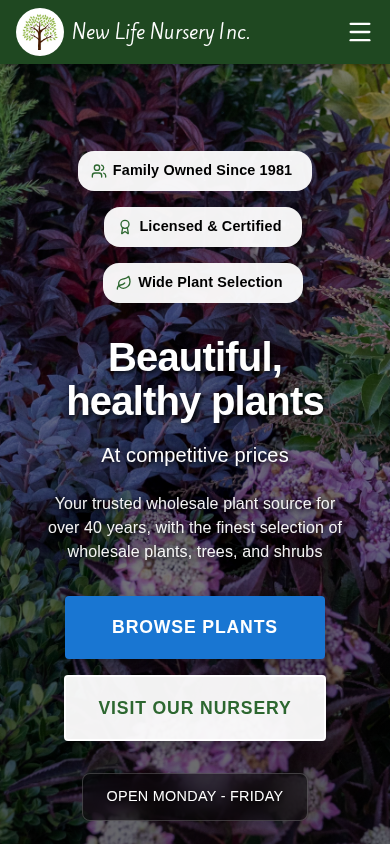
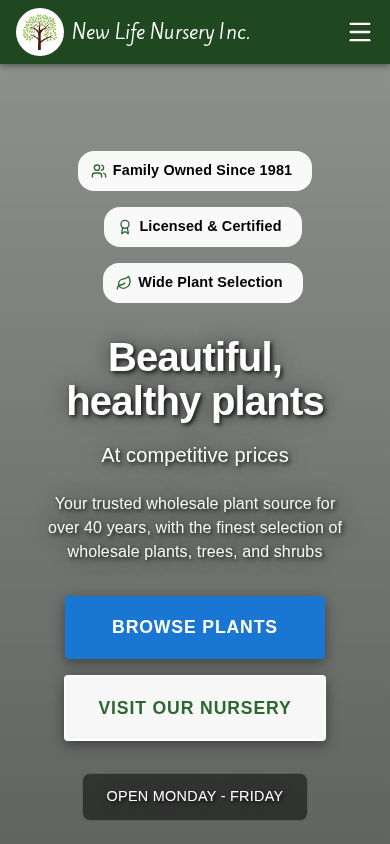
Harden browser validation gates

diff --git a/e2e/pwa.spec.ts b/e2e/pwa.spec.ts
@@ -177,21 +177,30 @@ test("shows a reload action when a service worker update is ready", async ({ pag
     await page.goto("/", { waitUntil: "load" });
     await expect(page.getByRole("button", { name: "Browse Plants" })).toBeVisible();
 
-    await page.evaluate(() => {
-        window.dispatchEvent(
-            new window.CustomEvent("nln-service-worker-update-ready", {
-                detail: {
-                    reload: () => {
-                        (
-                            window as typeof window & { __pwaReloadRequested?: boolean }
-                        ).__pwaReloadRequested = true;
-                    },
-                },
-            }),
-        );
-    });
+    await expect
+        .poll(() =>
+            page.evaluate(() => {
+                if (document.body.textContent?.includes("A site update is ready.")) {
+                    return true;
+                }
 
-    await expect(page.getByText("A site update is ready.")).toBeVisible();
+                window.dispatchEvent(
+                    new window.CustomEvent("nln-service-worker-update-ready", {
+                        detail: {
+                            reload: () => {
+                                (
+                                    window as typeof window & {
+                                        __pwaReloadRequested?: boolean;
+                                    }
+                                ).__pwaReloadRequested = true;
+                            },
+                        },
+                    }),
+                );
+                return document.body.textContent?.includes("A site update is ready.") ?? false;
+            }),
+        )
+        .toBe(true);
     await page.getByRole("button", { name: /reload/i }).click();
     await expect
         .poll(() =>

diff --git a/e2e/admin/stable/admin-gallery-simple.spec.ts b/e2e/admin/stable/admin-gallery-simple.spec.ts
@@ -7,6 +7,7 @@ import {
     stripApiPrefix,
 } from "@local/shared";
 import { test, expect } from "../../fixtures/auth";
+import { allowRuntimeIssue } from "../../fixtures/runtime-guard";
 
 const tinyPng = Buffer.from(
[1 lines of base64/hex data omitted]
@@ -96,6 +97,38 @@ test.describe("Admin Gallery", () => {
                     }),
                 ]),
             );
+
+            await authenticatedPage.goto(APP_LINKS.AdminGallery);
+            await authenticatedPage.getByRole("button", { name: /delete image/i }).last().click();
+            const deleteDialog = authenticatedPage.getByRole("dialog", {
+                name: /delete image/i,
+            });
+            await expect(deleteDialog).toBeVisible();
+            const blockedDeleteResponsePromise = authenticatedPage.waitForResponse(
+                (response) =>
+                    response.url().includes(
+                        `${stripApiPrefix(REST_ROUTES.images.root)}/${uploadedHash}`,
+                    ) &&
+                    response.request().method() === "DELETE",
+            );
+            allowRuntimeIssue(
+                authenticatedPage,
+                (issue) =>
+                    (issue.kind === "response" &&
+                        issue.message.includes(
+                            `409 ${DEFAULT_SERVER_URLS.localOrigin}${REST_ROUTES.images.root}/${uploadedHash}`,
+                        )) ||
+                    (issue.kind === "console" &&
+                        issue.message.includes(
+                            "Failed to load resource: the server responded with a status of 409",
+                        )),
+            );
+            await deleteDialog.getByRole("button", { name: /^delete$/i }).click();
+            const blockedDeleteResponse = await blockedDeleteResponsePromise;
+            expect(blockedDeleteResponse.status()).toBe(409);
+            await expect(
+                authenticatedPage.getByText(/cannot delete image while in use/i),
+            ).toBeVisible();
         } finally {
             if (uploadedHash) {
                 const csrfResponse = await authenticatedPage.request.get(

diff --git a/e2e/fixtures/runtime-guard.ts b/e2e/fixtures/runtime-guard.ts
@@ -5,7 +5,10 @@ type RuntimeIssue = {
     message: string;
 };
 
+type RuntimeIssueMatcher = (issue: RuntimeIssue) => boolean;
+
 type RuntimeGuard = {
+    allowIssue: (matcher: RuntimeIssueMatcher) => void;
     assertClean: () => void;
 };
 
@@ -55,6 +58,7 @@ const isAllowedResponseFailure = (response: Response) =>
 
 export const attachRuntimeGuard = (page: Page): RuntimeGuard => {
     const issues: RuntimeIssue[] = [];
+    const allowedIssueMatchers: RuntimeIssueMatcher[] = [];
 
     page.on("console", (message) => {
         const type = message.type();
@@ -87,10 +91,18 @@ export const attachRuntimeGuard = (page: Page): RuntimeGuard => {
     });
 
     const guard = {
+        allowIssue: (matcher: RuntimeIssueMatcher) => {
+            allowedIssueMatchers.push(matcher);
+        },
         assertClean: () => {
-            if (issues.length === 0) return;
+            const unexpectedIssues = issues.filter(
+                (issue) => !allowedIssueMatchers.some((matcher) => matcher(issue)),
+            );
+            if (unexpectedIssues.length === 0) return;
 
-            const details = issues.map((issue) => `- ${issue.kind}: ${issue.message}`).join("\n");
+            const details = unexpectedIssues
+                .map((issue) => `- ${issue.kind}: ${issue.message}`)
+                .join("\n");
             throw new Error(`Unexpected browser/runtime issues detected:\n${details}`);
         },
     };
@@ -101,4 +113,12 @@ export const attachRuntimeGuard = (page: Page): RuntimeGuard => {
 
 export const assertRuntimeClean = (page: Page) => {
     pageGuards.get(page)?.assertClean();
+};
+
+export const allowRuntimeIssue = (page: Page, matcher: RuntimeIssueMatcher) => {
+    const guard = pageGuards.get(page);
+    if (!guard) {
+        throw new Error("Runtime guard is not attached to this page");
+    }
+    guard.allowIssue(matcher);
 };

diff --git a/e2e/admin/stable/public-visual-simple.spec.ts b/e2e/admin/stable/public-visual-simple.spec.ts
@@ -11,15 +11,23 @@ const expectNoHorizontalOverflow = async (page: Page) => {
     expect(overflow).toBeLessThanOrEqual(1);
 };
 
+const hideHomepageHeroMedia = async (page: Page) => {
+    await page.addStyleTag({
+        content: `
+            main picture img[alt="Fall 2025 Highlights"],
+            main picture img[alt="Plant selection at New Life Nursery"],
+            main picture img[alt="Butterfly at New Life Nursery"] {
+                visibility: hidden !important;
+            }
+        `,
+    });
+};
+
 const expectStableScreenshot = async (
     page: Page,
     name: string,
     options: PageAssertionsToHaveScreenshotOptions,
 ) => {
-    if (process.env.CI) {
-        return;
-    }
-
     await expect(page).toHaveScreenshot(name, options);
 };
 
@@ -30,6 +38,7 @@ test.describe("Public Site - Visual Smoke", () => {
             page.getByRole("heading", { name: /new life nursery|wholesale nursery/i }).first(),
         ).toBeVisible();
         await expectNoHorizontalOverflow(page);
+        await hideHomepageHeroMedia(page);
 
         await expectStableScreenshot(page, "public-home-desktop.png", {
             animations: "disabled",
@@ -103,6 +112,7 @@ test.describe("Public Site - Visual Smoke", () => {
             page.getByRole("heading", { name: /new life nursery|wholesale nursery/i }).first(),
         ).toBeVisible();
         await expectNoHorizontalOverflow(page);
+        await hideHomepageHeroMedia(page);
 
         await expectStableScreenshot(page, "public-home-mobile.png", {
             animations: "disabled",

diff --git a/packages/ui/src/components/Hero/Slide.tsx b/packages/ui/src/components/Hero/Slide.tsx
@@ -11,6 +11,7 @@ interface SlideProps {
     isActive?: boolean;
     offsetPercent?: number;
     transitionDuration?: number;
+    loading?: "eager" | "lazy";
 }
 
 export const Slide = ({
@@ -21,6 +22,7 @@ export const Slide = ({
     isActive,
     offsetPercent,
     transitionDuration = 1000,
+    loading,
 }: SlideProps) => {
     if (!image) return null;
 
@@ -42,7 +44,7 @@ export const Slide = ({
         .map((file) => `${toImageUrl(file.src)} ${file.width}w`)
         .join(", ");
     const fallbackFile = files.find((file) => file.src === imageSrc) ?? files[0];
-    const loading = isPriority ? "eager" : "lazy";
+    const imageLoading = loading ?? (isPriority ? "eager" : "lazy");
     const fetchPriority = isPriority ? "high" : "auto";
     const imageElement = (
         <Box
@@ -60,7 +62,7 @@ export const Slide = ({
                 srcSet={fallbackSrcSet || undefined}
                 sizes="100vw"
                 alt={image.alt || ""}
-                loading={loading}
+                loading={imageLoading}
                 ref={(element: HTMLImageElement | null) => {
                     element?.setAttribute("fetchpriority", fetchPriority);
                 }}

diff --git a/playwright.visual.config.ts b/playwright.visual.config.ts
@@ -1,0 +1,6 @@
+import { createE2EConfig } from "./playwright.shared";
+
+export default createE2EConfig({
+    testMatch: "admin/stable/public-visual-simple.spec.ts",
+    reportName: "visual",
+});

diff --git a/packages/ui/src/components/Hero/Slider.tsx b/packages/ui/src/components/Hero/Slider.tsx
@@ -86,8 +86,8 @@ export const Slider = ({
         const previousIndex = slideIndex === 0 ? images.length - 1 : slideIndex - 1;
         const nextIndex = slideIndex === images.length - 1 ? 0 : slideIndex + 1;
         const visibleIndexes = canPreloadNeighbors
-            ? new Set([previousIndex, slideIndex, nextIndex])
-            : new Set([slideIndex]);
+            ? [...new Set([previousIndex, slideIndex, nextIndex])]
+            : [slideIndex];
 
         return [...visibleIndexes].map((index) => {
             const offset = index === slideIndex ? 0 : index === previousIndex ? -100 : 100;
@@ -98,6 +98,7 @@ export const Slider = ({
                     key={`slide-${index}`}
                     image={images[index]}
                     isPriority={index === slideIndex}
+                    loading={canPreloadNeighbors || index === slideIndex ? "eager" : "lazy"}
                     fadeTransition={fadeTransition}
                     isActive={fadeTransition ? index === slideIndex : undefined}
                     offsetPercent={fadeTransition ? undefined : offset}

diff --git a/packages/ui/src/components/Hero/Slider.test.tsx b/packages/ui/src/components/Hero/Slider.test.tsx
@@ -43,7 +43,7 @@ describe("Slider", () => {
             "high",
         );
         const preloadedSecondSlide = screen.getByRole("img", { name: "Second hero slide" });
-        expect(preloadedSecondSlide).toHaveAttribute("loading", "lazy");
+        expect(preloadedSecondSlide).toHaveAttribute("loading", "eager");
         expect(preloadedSecondSlide).toHaveAttribute("fetchpriority", "auto");
 
         act(() => {

diff --git a/playwright.public.config.ts b/playwright.public.config.ts
@@ -5,7 +5,6 @@ export default createE2EConfig({
         "admin/stable/public-account-flows-simple.spec.ts",
         "admin/stable/public-gallery-simple.spec.ts",
         "admin/stable/public-smoke-simple.spec.ts",
-        "admin/stable/public-visual-simple.spec.ts",
     ],
     reportName: "public",
 });

diff --git a/TESTING.md b/TESTING.md
@@ -8,11 +8,11 @@ This project has five validation tiers. Use the cheapest tier that answers the q
 | --- | --- | --- | --- |
 | Quick gate | `yarn validate` or `yarn validate:quick` | TypeScript, test typecheck, lint, unit tests, script tests, drift checks, migration risk checks | Node/Yarn, Bats for script tests |
 | Server integration | `yarn test:integration` | REST, auth, database, Redis, queue, storage, newsletter, and landing-page behavior against real infrastructure | Docker |
-| Browser gate | `yarn validate:browser` | Production UI build, PWA checks, accessibility E2E, public visitor Playwright flows, stable admin Playwright flows | Docker, Playwright Chromium |
+| Browser gate | `yarn validate:browser` | Production UI build, PWA checks, accessibility E2E, public visitor Playwright flows, visual regression snapshots, stable admin Playwright flows | Docker, Playwright Chromium |
 | Full gate | `yarn validate:full` | Quick gate, server integration, browser gate | Docker, Playwright Chromium |
 | Release gate | `yarn validate:release` | Full gate plus Lighthouse public page checks and a validation receipt | Docker, Playwright Chromium |
 
-CI runs the same core layers as separate jobs: quick validation plus PWA/Lighthouse, server integration tests, public/admin browser E2E and accessibility tests, and a final trusted gate that fails unless all required jobs pass.
+CI runs the same core layers as separate jobs: quick validation plus PWA/Lighthouse, server integration tests, public/admin browser E2E, visual regression and accessibility tests, and a final trusted gate that fails unless all required jobs pass. A scheduled Lighthouse workflow also runs weekly to catch public-page performance drift.
 
 ## Recommended Local Workflow
 
@@ -40,13 +40,19 @@ Before a production deployment, use the non-deploying readiness gate with a fres
 ./scripts/deploy-readiness.sh -v <VERSION> -e .env-prod
 ```
 
+After a deployment, run the read-only public smoke check against the deployed base URL:
+
+```bash
+PUBLIC_SMOKE_BASE_URL=https://<your-site> yarn smoke:public
+```
+
 ## What Each Layer Catches
 
 `yarn validate` catches compile errors, broken test types, lint failures, unit regressions, unsafe test patterns, raw route drift, env default drift, risky migrations, and deployment-script regressions.
 
 `yarn test:integration` catches behavior that mocks usually miss: Prisma migrations, PostgreSQL queries, Redis behavior, authentication cookies, CSRF-sensitive REST flows, storage cleanup, newsletter management, landing-page APIs, and queue behavior.
 
-`yarn validate:browser` catches browser-level failures: public and admin navigation, admin content management smoke flows, accessibility smoke coverage, PWA/service-worker expectations, unexpected console/page errors, and unexpected failed HTTP responses.
+`yarn validate:browser` catches browser-level failures: public and admin navigation, admin content management smoke flows, accessibility smoke coverage, visual regressions on key public pages, PWA/service-worker expectations, unexpected console/page errors, and unexpected failed HTTP responses.
 
 `yarn validate:release` adds Lighthouse checks for homepage, about, and gallery. Lighthouse blocks failed quality categories and homepage-critical performance regressions such as LCP exceeding the configured threshold.
 
@@ -56,6 +62,7 @@ Before a production deployment, use the non-deploying readiness gate with a fres
 - Server integration tests use `*.integration.test.ts`.
 - Stable Playwright tests live under `e2e/admin/stable`.
 - Public visitor Playwright specs are named `public-*-simple.spec.ts` and run through `yarn test:e2e:public`.
+- Visual regression specs run through `yarn test:visual`; update snapshots only after reviewing intentional visual changes with `yarn test:visual --update-snapshots`.
 - Stable admin Playwright specs run through `yarn test:e2e:admin`; public specs are excluded from this gate.
 - Legacy or broader Playwright tests live under `e2e/admin/legacy`.
 - Script tests live under `scripts/tests` and run through Bats.

diff --git a/README.md b/README.md
@@ -149,8 +149,14 @@ yarn validate:browser
 # Stable public visitor E2E suite
 yarn test:e2e:public
 
+# Public-page visual regression snapshots
+yarn test:visual
+
 # Stable admin E2E suite
 yarn test:e2e:admin
+
+# Read-only smoke check for a deployed public URL
+yarn smoke:public https://<your-site>
 
 # Type checking
 yarn typecheck
@@ -169,7 +175,7 @@ The project includes layered test coverage:
 
 - **Unit Tests**: Shared, UI, and server Vitest suites with coverage thresholds
 - **Integration Tests**: Server Vitest suites with Testcontainers-backed PostgreSQL and Redis
-- **Browser Tests**: Playwright public visitor flows, stable admin flows, accessibility checks, and PWA checks
+- **Browser Tests**: Playwright public visitor flows, visual snapshots, stable admin flows, accessibility checks, and PWA checks
 - **Script Tests**: Bats coverage for backup, deploy, rollback, readiness, healthcheck, and migration safety
 
 ```bash

diff --git a/docs/lighthouse-ci.md b/docs/lighthouse-ci.md
@@ -66,6 +66,8 @@ Currently testing 3 public pages. Local runs use the median of 3 audits per page
 
 `yarn lighthouse:local` builds the production UI, starts disposable local API services, serves the built UI, waits for `/healthcheck`, and then runs Lighthouse against the public pages.
 
+CI also runs a scheduled weekly Lighthouse workflow so public-page performance drift is visible even when a branch is not actively changing Lighthouse-related code.
+
 The configured assertions fail the command for low quality category scores, accessibility must-haves, and LCP above 2.5s. FCP, CLS, TBT, and console errors remain warning-level checks.
 
 ## Understanding Results